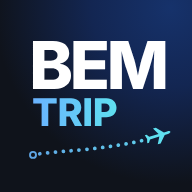
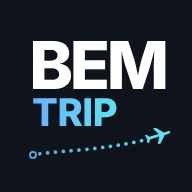
홈 화면 아이콘: 바탕의 그라데이션을 빼고 단색으로
Claude-Session: https://claude.ai/code/session_01VKxnkyMFQsk32W8kww6fgd

diff --git a/build.js b/build.js
@@ -57,7 +57,7 @@ const html = `<!doctype html>
 <meta name="apple-mobile-web-app-capable" content="yes">
 <meta name="apple-mobile-web-app-title" content="BEMTRIP">
 <meta name="apple-mobile-web-app-status-bar-style" content="default">
-<!-- 홈 화면에 올렸을 때의 얼굴 — BEMESTATE와 한 식구(어두운 바탕 · 흰 BEM · 그라데이션 TRIP · 비행 경로). icons/ 와 manifest는 생성물이 아니다. -->
+<!-- 홈 화면에 올렸을 때의 얼굴 — BEMESTATE와 한 식구(어두운 단색 바탕 · 흰 BEM · 그라데이션 TRIP · 비행 경로). icons/ 와 manifest는 생성물이 아니다. -->
 <link rel="icon" type="image/png" sizes="32x32" href="icons/favicon-32.png">
 <link rel="apple-touch-icon" href="icons/apple-touch-icon.png">
 <link rel="manifest" href="manifest.webmanifest">

diff --git a/index.html b/index.html
@@ -9,7 +9,7 @@
 <meta name="apple-mobile-web-app-capable" content="yes">
 <meta name="apple-mobile-web-app-title" content="BEMTRIP">
 <meta name="apple-mobile-web-app-status-bar-style" content="default">
-<!-- 홈 화면에 올렸을 때의 얼굴 — BEMESTATE와 한 식구(어두운 바탕 · 흰 BEM · 그라데이션 TRIP · 비행 경로). icons/ 와 manifest는 생성물이 아니다. -->
+<!-- 홈 화면에 올렸을 때의 얼굴 — BEMESTATE와 한 식구(어두운 단색 바탕 · 흰 BEM · 그라데이션 TRIP · 비행 경로). icons/ 와 manifest는 생성물이 아니다. -->
 <link rel="icon" type="image/png" sizes="32x32" href="icons/favicon-32.png">
 <link rel="apple-touch-icon" href="icons/apple-touch-icon.png">
 <link rel="manifest" href="manifest.webmanifest">

diff --git a/CLAUDE.md b/CLAUDE.md
@@ -344,7 +344,7 @@ vendor/pdfjs/  PDF를 그리는 pdf.js(3.11.174 legacy)와 글자표(cmaps). 남
   BEM은 글자색(`--ink`, 어두운 화면에서 흰색), TRIP은 `--brand-1 → --brand-2`
   그라데이션. `src/app.html`의 기다리는 화면과 `<title>`도 같은 이름이다.
   **홈 화면 아이콘은 BEMESTATE(같은 주인의 다른 앱) 아이콘과 한 식구다**(`icons/`: `apple-touch-icon.png` 180 · `icon-192` · `icon-512` ·
-  `maskable-512`(가운데 82%) · `favicon-32`, `manifest.webmanifest`): 어두운 바탕(#0F131B에 오른쪽 위로 푸른 빛) · 흰 BEM · 그 아래 TRIP(#6AB2FF → #5FE0F0) ·
+  `maskable-512`(가운데 82%) · `favicon-32`, `manifest.webmanifest`): 어두운 **단색** 바탕(#0F131B — 바탕에 그라데이션 · 빛 번짐을 넣지 않는다, 한 번 넣었다가 뺐다) · 흰 BEM · 그 아래 TRIP(#6AB2FF → #5FE0F0) ·
   맨 아래 작은 그림. **글자와 그림의 자리 · 크기는 BEMESTATE에서 잰 값 그대로다**(512 기준 BEM 88–439 × 108–235, 둘째 줄 높이 263–336 · 왼쪽 88,
   그림 78–440 × 359–422) — BEMESTATE의 그래프 자리에 BEMTRIP은 **점선 비행 경로와 비행기**(출발 고리 → 점선 → 비행기)를 둔다. Inter 800.
   모서리는 폰이 깎으므로 그림은 네모 그대로 둔다. 링크는 `build.js`가 머리에 넣는다. `icons/`와 매니페스트는 생성물이 아니다 — 빌드가 건드리지 않는다.
